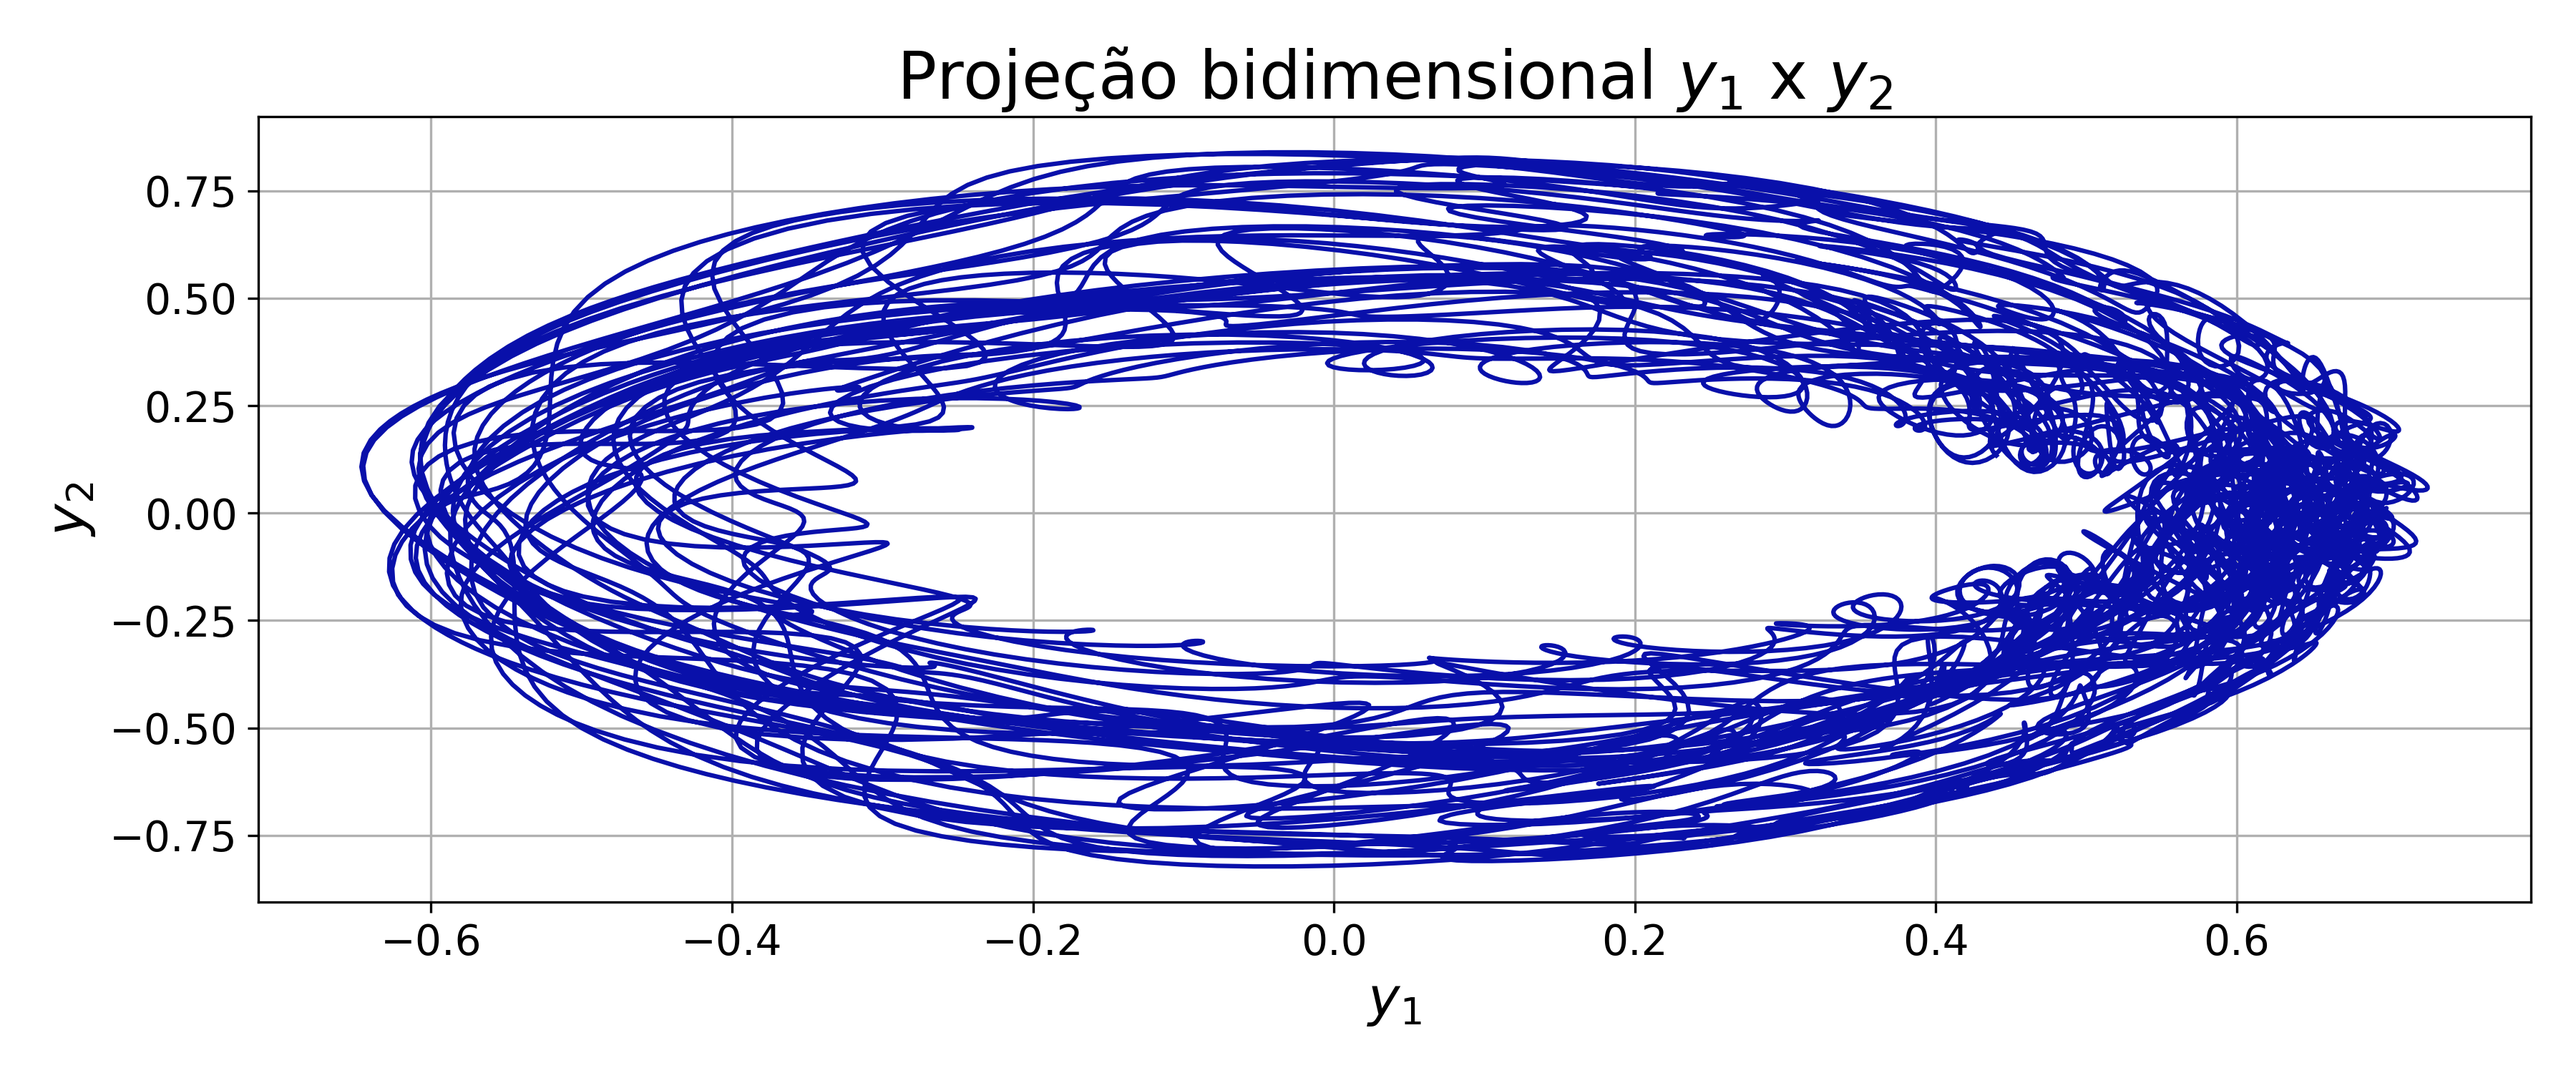
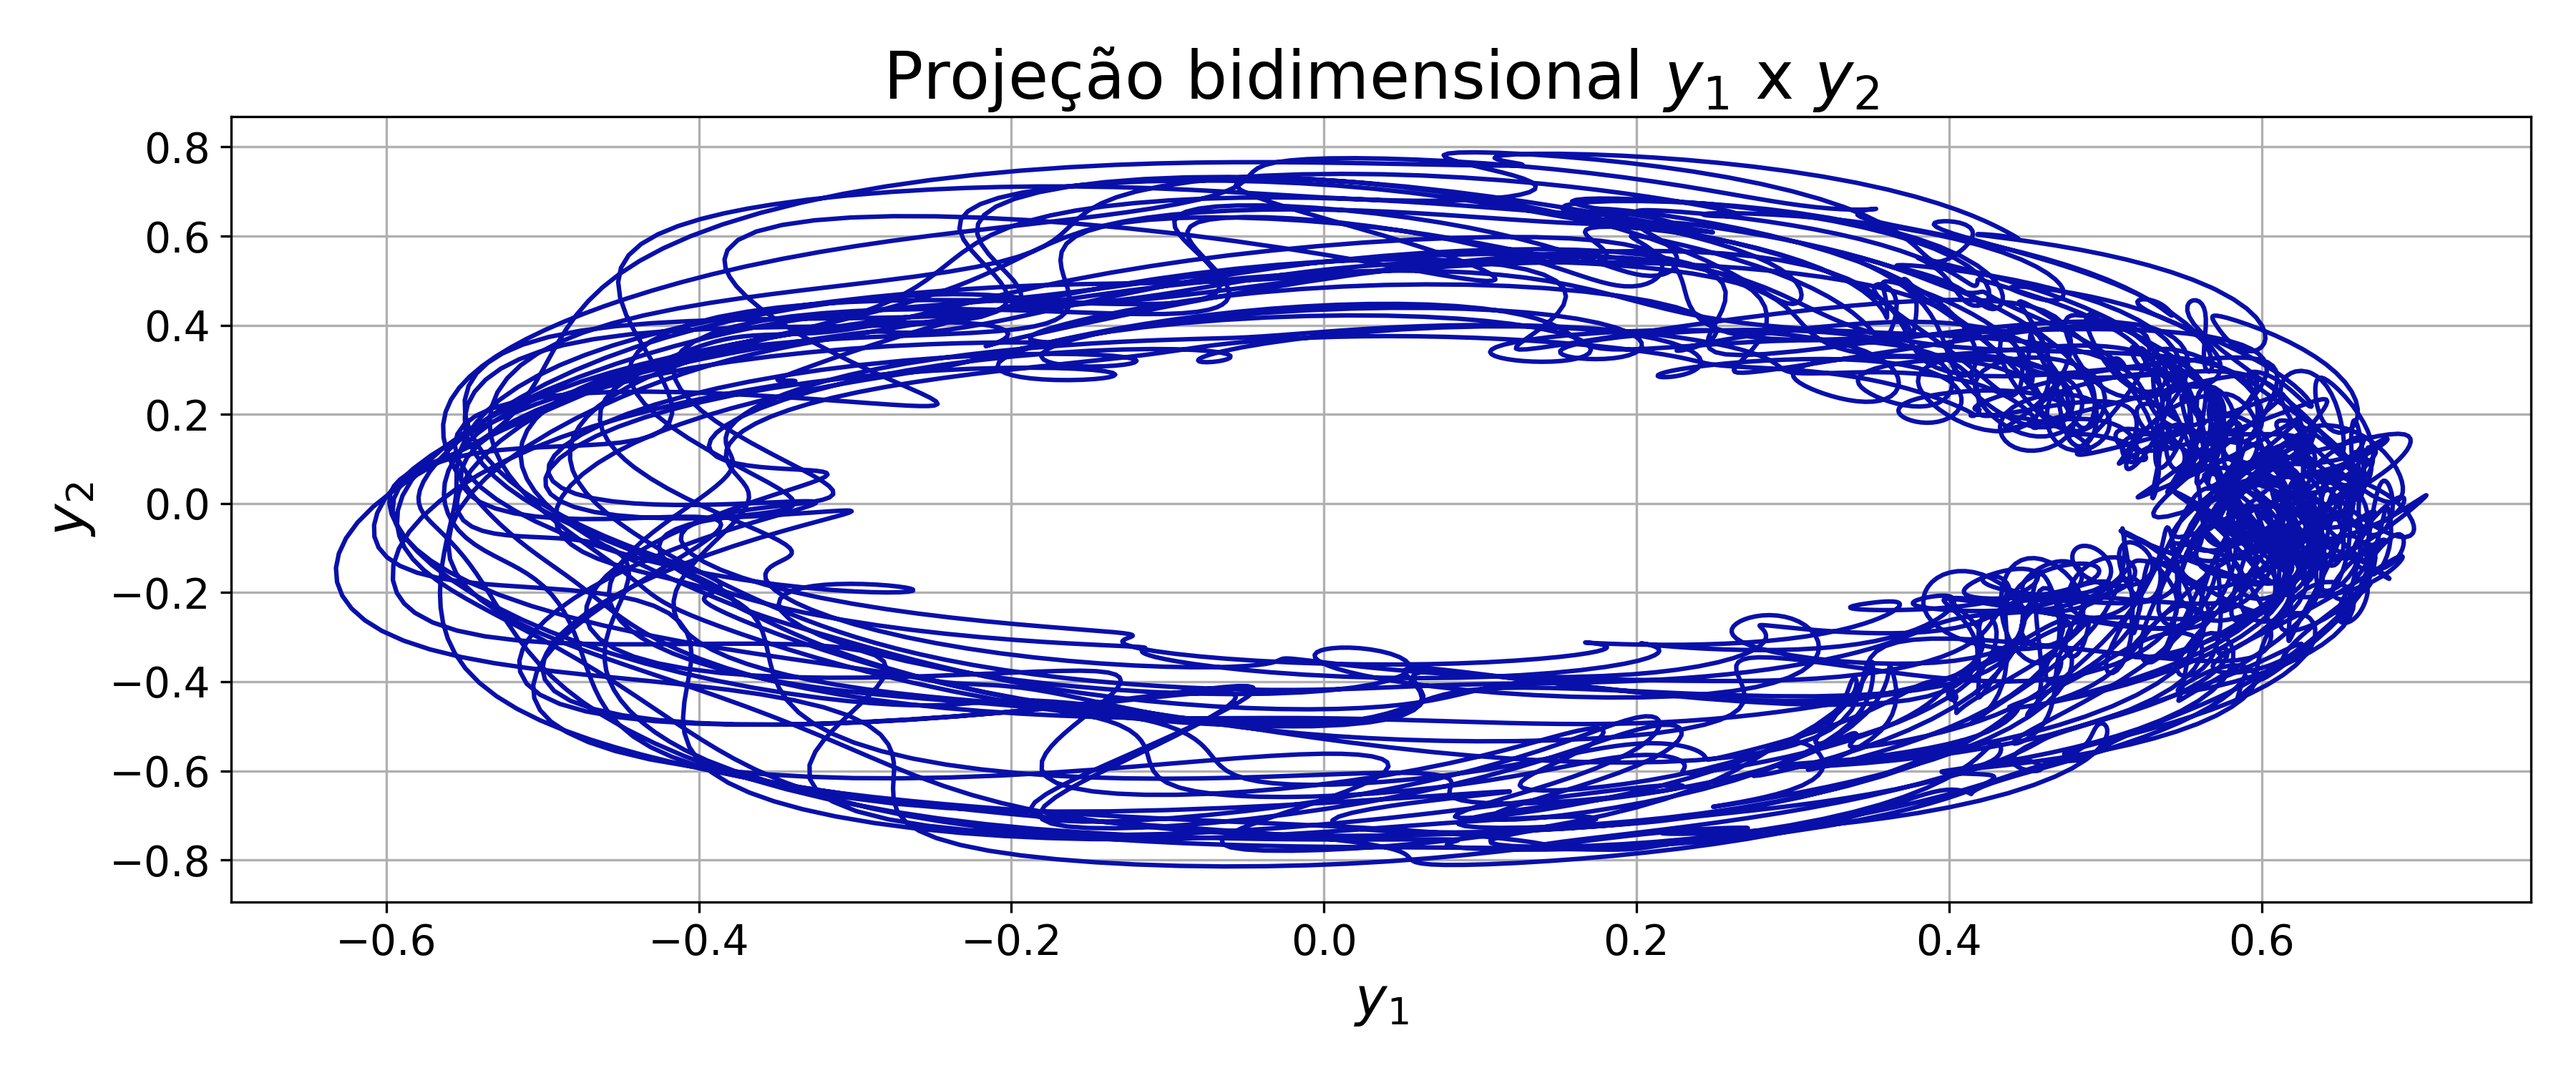
pe_scaled 290d

diff --git a/06_LORENZ_80/initial_conditions.py b/06_LORENZ_80/initial_conditions.py
@@ -18,4 +18,4 @@ y0 = [0.1,0.1,0.1]
 z0 = [0.1,0.1,0.1]
 """
 
-days = 400
+days = 290
